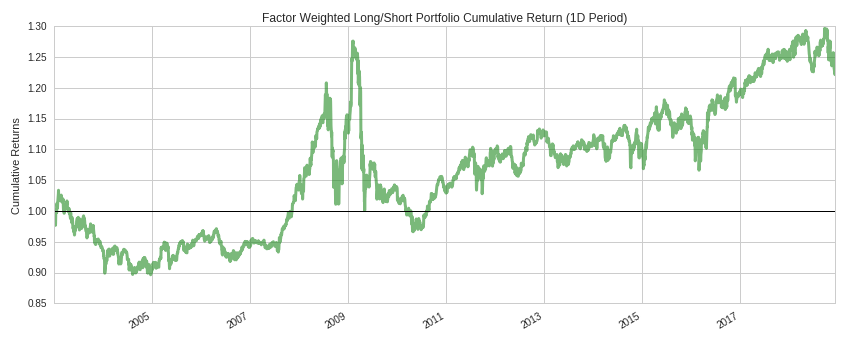
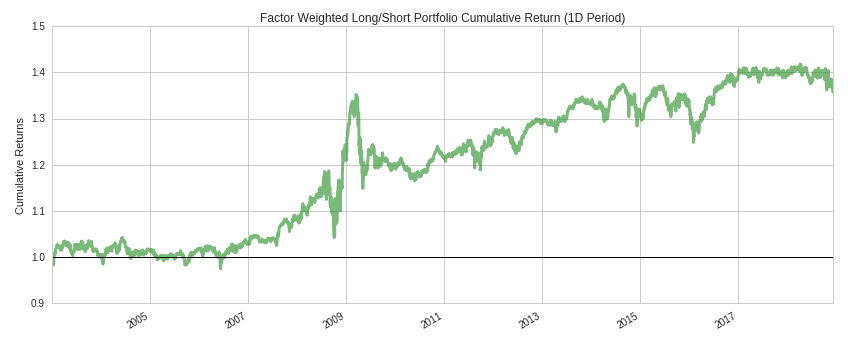
update post

diff --git a/_posts/2020-01-14-rec.md b/_posts/2020-01-14-rec.md
@@ -8,9 +8,6 @@ startup: showeverything
 title: 'Analyst Recommendations: Got Alpha?'
 ---
 
-Introduction
-------------
-
 In today\'s post, we will dig into the nature and value of analyst
 recommendations in order to try to answer an old but controversial
 question: do sell-side analyst recommendations hold any predictive
@@ -237,7 +234,7 @@ based on the aforementioned hypothesis:
 
 We can easily construct the corresponding factor as follows:
 
-$$f=\text{Z}(-\frac{\text{rank}[\text{SMA}_{20}(r_{daily})]}{\text{rank}[-mark]})$$
+$$f=\text{Z}(\text{rank}[-\text{SMA}_{20}(r_{daily})]\text{rank}[-mark])$$
 
 Where SMA is the 20 day simple moving average and $r_{daily}$ the daily
 (close-to-close) returns. This factor will allows us to create a
@@ -248,9 +245,11 @@ looking at the daily mean return by quantilea
 
 ![Mean Return by Quantile](/assets/arecret.png)
 
-Though not monotonic and far from perfect, it looks a lot better! It\'s
-clear that our alpha decays rather quickly, so let\'s focus on the one
-day holding period\'s cumulative return by quantile:
+Not bad! As desired, we have a nice monotonic progression from the
+first quantile to the fifth. From this graph, it\'s clear that our
+alpha decays rather quickly with time, so let\'s focus on the one day
+holding period\'s cumulative return by quantile:
+
 
 ![Cumulative Return by Quantile](/assets/areccret.png)
 
@@ -272,22 +271,22 @@ to vanilla market returns:
 
 | Metric   | L/S  | S&P 500 |
 |----------|------|---------|
-| Beta     | 3.6% | 100%    |
-| Ann. Ret | 1.2% | 8.4%    |
-| Ann. Vol | 7.4% | 17.9%   |
-| Ret/Vol  | 0.17 | 1.14    |
+| Beta     | 4.6% | 100%    |
+| Ann. Ret | 1.7% | 8.4%    |
+| Ann. Vol | 6.2% | 17.9%   |
+| Ret/Vol  | 0.31 | 1.34    |
 
 Unfortunately, after looking at the above table, it is clear that even
 though our strategy demonstrates abnormal returns, investors would not
 find it an attractive investment. The unlevered return is below the
-cost-of-capital (i.e risk-free rate) so it would be difficult to lever
-up the strategy in order to increase returns. Even if we could borrow at
-a zero percent interest rate, it is unclear why would even want to as
-the S&P 500 has a better return to volatility ratio over this
-time-period; in other words, an investor could just invest a third of
-their money in the S&P 500 and receive both better returns and
-volatility than our strategy. Perhaps the only saving grace is the low
-market (beta) exposure, but with so many other uncorrelated asset
+usual cost-of-capital (i.e risk-free rate) so it would be difficult to
+lever up the strategy in order to increase returns. Even if we could
+borrow at a zero percent interest rate, it is unclear why would even
+want to as the S&P 500 has a better return to volatility ratio over
+this time-period; in other words, an investor could just invest a
+third of their money in the S&P 500 and receive both better returns
+and volatility than our strategy. Perhaps the only saving grace is the
+low market (beta) exposure, but with so many other uncorrelated asset
 classes that have much better risk/reward profiles, the strategy is
 functionally useless.
 

diff --git a/_posts/2019-11-28-div.md b/_posts/2019-11-28-div.md
@@ -8,16 +8,11 @@ startup: showeverything
 title: 'Diversification, Risk and Leverage'
 ---
 
-Introduction
-------------
-
 In this post, we will look into the relationship between
 diversification, risk, and leverage: first covering the history of
 diversification and risk and then expounding upon the mathematical link
 between leverage and diversification. Much of the material in this post
-is related to another post of mine which you can view here: [ETFs,
-Volatility and Leverage: Towards a New Leveraged ETF Part
-1](https://smabie.github.io/posts/2019/10/04/vol.html).
+is related to another post of mine which you can view here: [ETFs, Volatility and Leverage: Towards a New Leveraged ETF Part 1](https://smabie.github.io/posts/2019/10/04/vol.html).
 
 While this article doesn\'t constitute the next post in the series (stay
 tuned!), it covers some important ideas that I feel to have tangency to
@@ -156,7 +151,7 @@ Next we define our vector weights or proportions:
 $$\textbf{x}=
    \begin{bmatrix}
    x_A \\
-   x_B 
+   x_B
    \end{bmatrix}$$
 
 Now we can define our variance in terms of the covariance matrix and the
@@ -182,7 +177,7 @@ Then:
 $$\textbf{x}=
    \begin{bmatrix}
    x \\
-   x 
+   x
    \end{bmatrix}$$
 
 $$\textbf{P}=\begin{bmatrix}

diff --git a/_posts/2019-10-04-vol.md b/_posts/2019-10-04-vol.md
@@ -8,9 +8,6 @@ startup: showeverything
 title: 'ETFs, Volatility and Leverage: Towards a New Leveraged ETF Part 1'
 ---
 
-Introduction
-------------
-
 In part one of this three part series, we will explore the concept of
 levered ETFs, common misconceptions, the effect of volatility on the
 returns of a portfolio, and the compounded returns of the S&P 500

diff --git a/_posts/2020-05-13-pr.md b/_posts/2020-05-13-pr.md
@@ -8,9 +8,6 @@ startup: showeverything
 title: 'Prediction Markets: Strategies for Alpha Generation'
 ---
 
-Introduction
-------------
-
 Much like financial markets, prediction markets (PM) have existed in
 some informal capacity for hundreds of years; the earliest known
 records, dating back to 1503, describe the practice of betting upon
